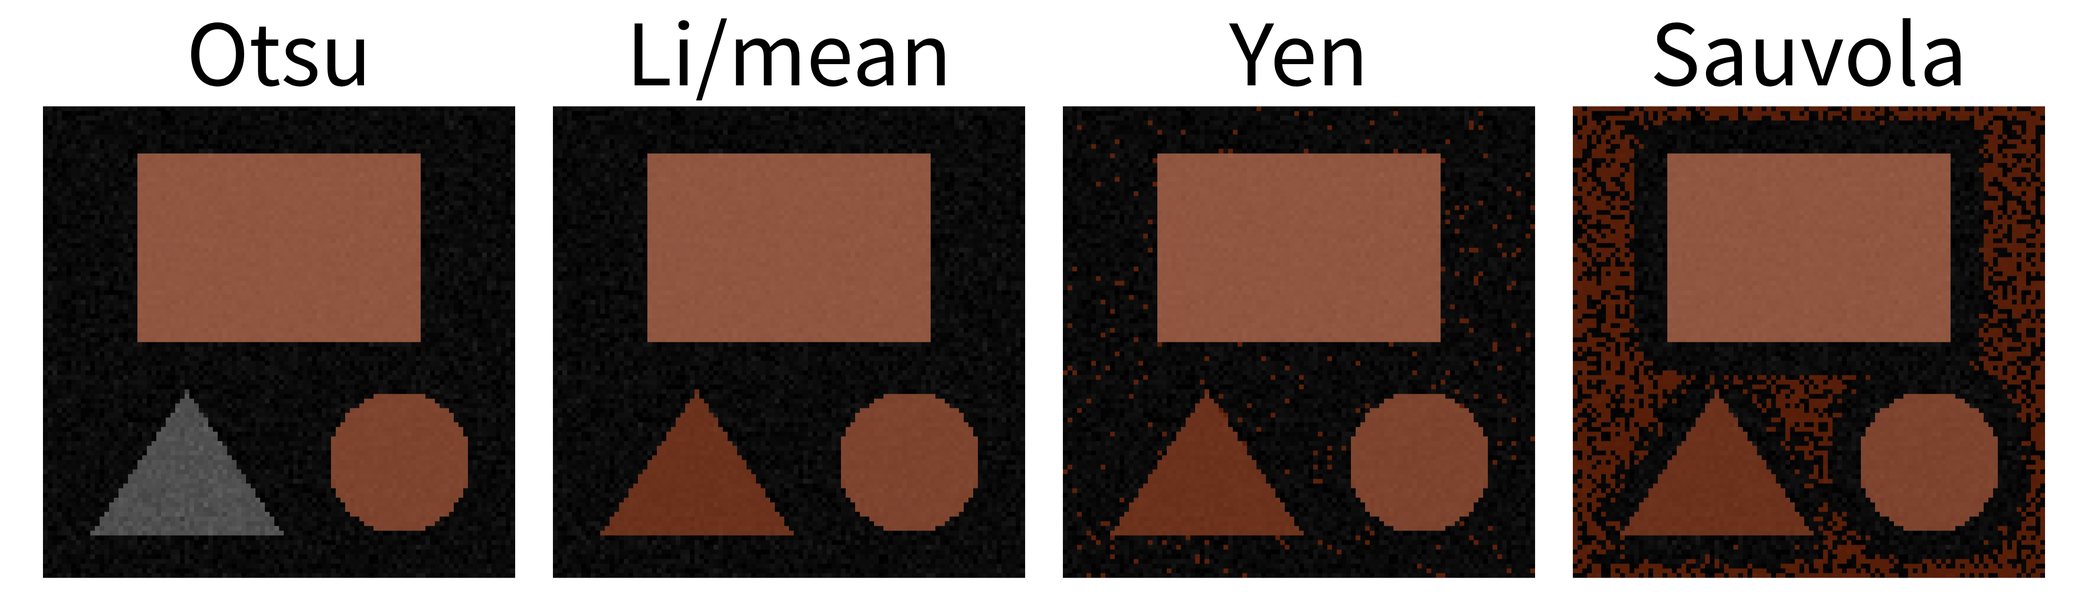
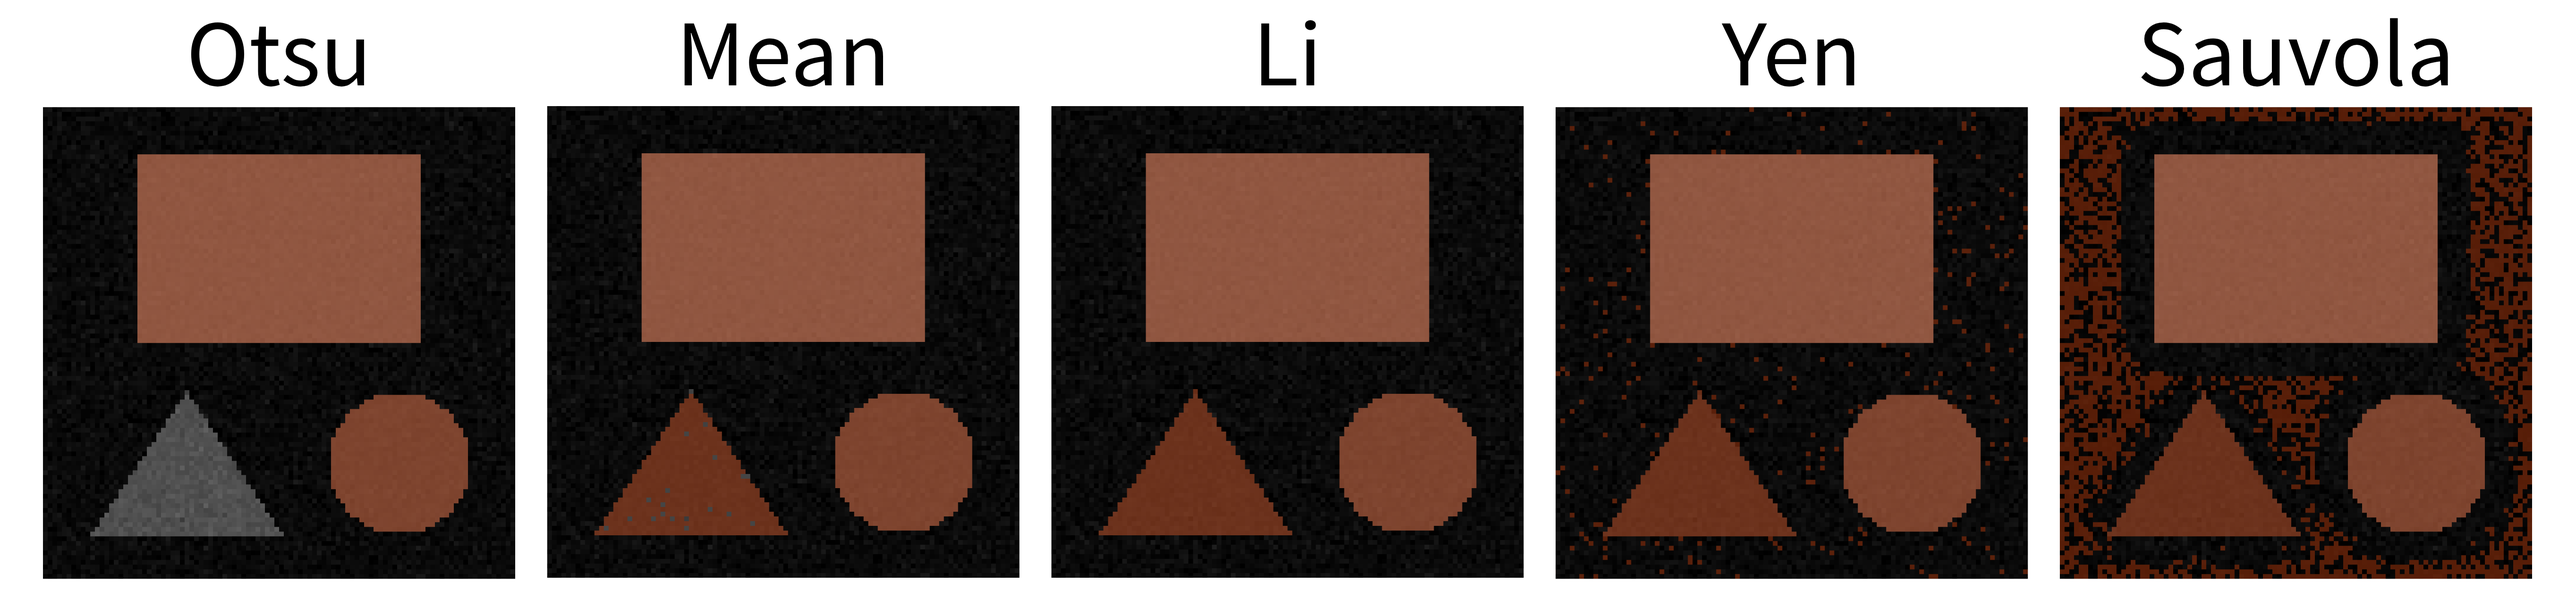
add mean and update descriptions

diff --git a/episodes/filters-and-thresholding.md b/episodes/filters-and-thresholding.md
@@ -715,10 +715,12 @@ row of the layer controls.
 
 ![](fig/shapes-thresholds.png){alt="Masks via automated thresholding"}
 
-- **Otsu**: Misses the low-intensity triangle.
-- **Li/mean**: This looks great! The mask includes all three shapes.
-- **Yen**: Includes shapes but also some background.
-- **Sauvola**: Includes a lot of the background.
+- **Otsu**: The mask does not include the low‑intensity triangle.
+- **Mean**: Generally good, but on close inspection a few darker triangle pixels are still missed.
+- **Li**: This looks great! The mask includes all pixels of the three shapes, while excluding the background. 
+- **Yen**: Includes the shapes but also includes some background.
+- **Sauvola**: A substantial amount of background is included here.
+
 
 The important point is that different automatic thresholding methods will work 
 well for different kinds of images, and depending on which part of an image you 
